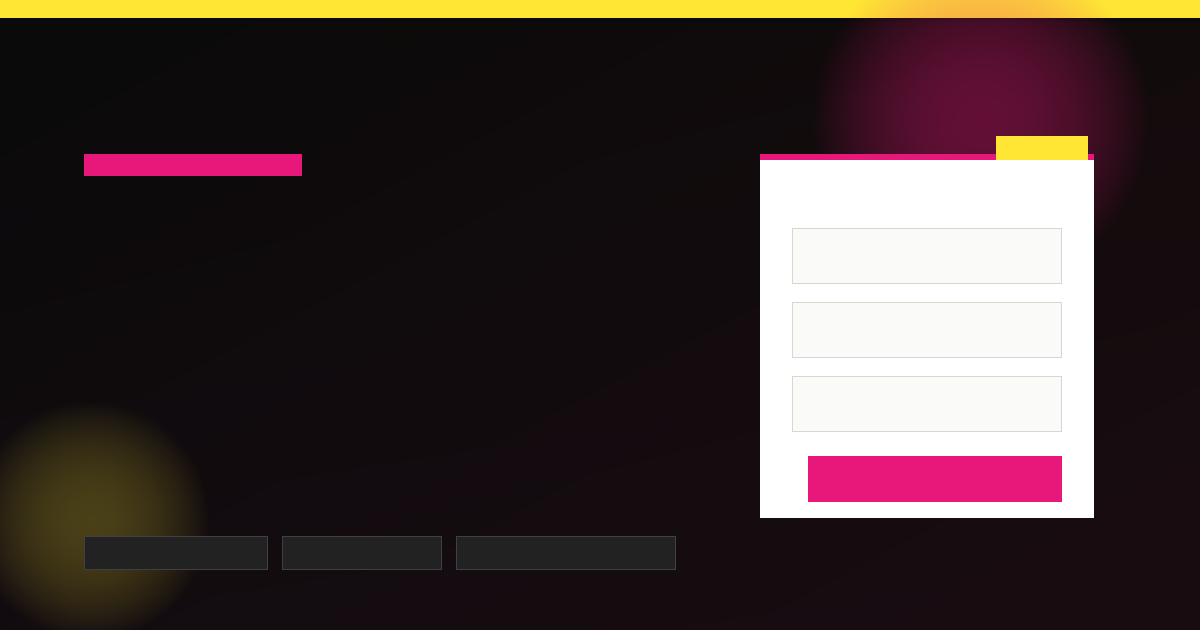
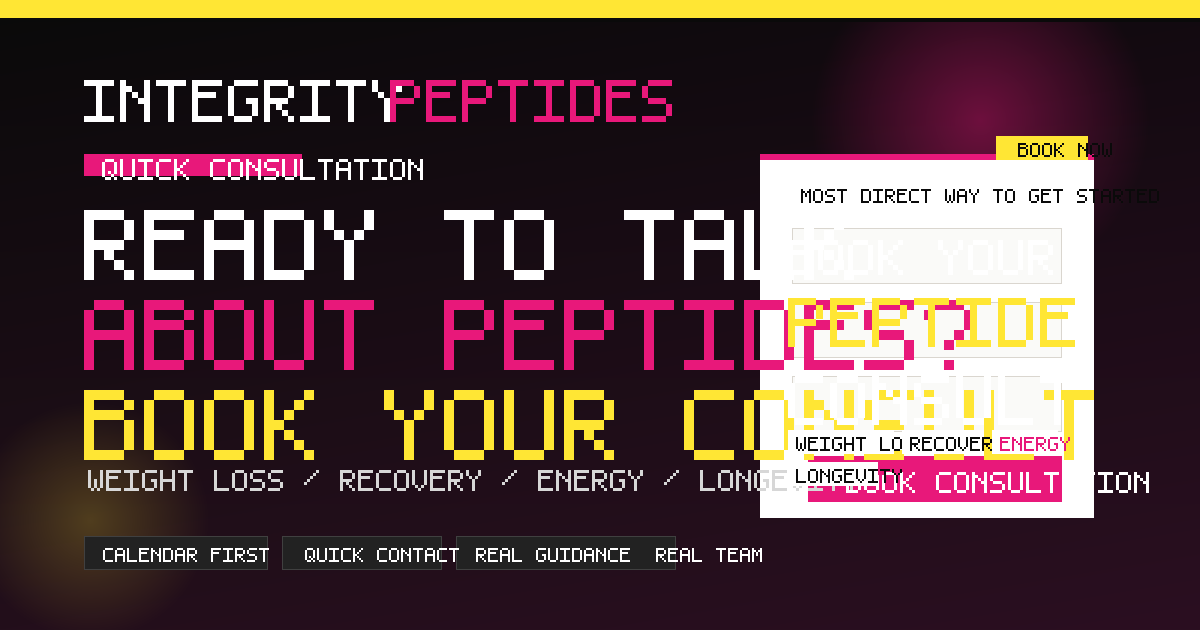
Update OG image to text-focused artwork

diff --git a/og-card.html b/og-card.html
@@ -1,0 +1,241 @@
+<!DOCTYPE html>
+<html lang="en">
+<head>
+  <meta charset="UTF-8">
+  <meta name="viewport" content="width=1200, initial-scale=1.0">
+  <title>OG Card</title>
+  <link rel="preconnect" href="https://fonts.googleapis.com">
+  <link rel="preconnect" href="https://fonts.gstatic.com" crossorigin>
+  <link href="https://fonts.googleapis.com/css2?family=Noto+Serif+Display:wght@500;600&family=Montserrat:wght@700;800;900&family=Barlow:wght@500;600;700&display=swap" rel="stylesheet">
+  <style>
+    :root {
+      --pink: #e8187a;
+      --pink-light: #ff4da6;
+      --yellow: #ffe634;
+      --black: #0a0a0a;
+      --white: #ffffff;
+    }
+    * { box-sizing: border-box; }
+    html, body {
+      width: 1200px;
+      height: 630px;
+      margin: 0;
+      overflow: hidden;
+      background: #0a0a0a;
+      font-family: "Barlow", sans-serif;
+    }
+    body {
+      position: relative;
+      color: white;
+      background:
+        radial-gradient(circle at 88% 14%, rgba(232, 24, 122, 0.35), transparent 18%),
+        radial-gradient(circle at 8% 84%, rgba(255, 230, 52, 0.18), transparent 16%),
+        linear-gradient(135deg, #0a0a0a 0%, #171117 56%, #2a1121 100%);
+    }
+    .top-strip {
+      position: absolute;
+      inset: 0 0 auto 0;
+      height: 18px;
+      background: var(--yellow);
+      border-bottom: 4px solid var(--black);
+    }
+    .hex {
+      position: absolute;
+      opacity: 0.08;
+      border: 2px solid white;
+      clip-path: polygon(25% 6.7%, 75% 6.7%, 100% 50%, 75% 93.3%, 25% 93.3%, 0% 50%);
+    }
+    .hex.a { top: 72px; right: 86px; width: 220px; height: 220px; }
+    .hex.b { bottom: 74px; left: 58px; width: 120px; height: 120px; }
+    .wrap {
+      position: relative;
+      z-index: 2;
+      width: 100%;
+      height: 100%;
+      padding: 58px 70px 54px;
+      display: grid;
+      grid-template-columns: 1.2fr 0.8fr;
+      gap: 32px;
+    }
+    .left {
+      display: flex;
+      flex-direction: column;
+      justify-content: center;
+      padding-right: 12px;
+    }
+    .brand {
+      font-family: "Noto Serif Display", serif;
+      font-size: 34px;
+      letter-spacing: 0.04em;
+      margin-bottom: 24px;
+    }
+    .brand span { color: var(--pink); }
+    .eyebrow {
+      display: inline-flex;
+      align-items: center;
+      width: fit-content;
+      background: var(--pink);
+      color: white;
+      padding: 8px 14px;
+      clip-path: polygon(8px 0%, 100% 0%, calc(100% - 8px) 100%, 0% 100%);
+      font-family: "Barlow", sans-serif;
+      font-weight: 700;
+      font-size: 15px;
+      letter-spacing: 0.18em;
+      text-transform: uppercase;
+      margin-bottom: 22px;
+    }
+    h1 {
+      margin: 0;
+      font-family: "Montserrat", sans-serif;
+      font-size: 82px;
+      line-height: 0.94;
+      letter-spacing: -0.04em;
+      font-weight: 900;
+      text-transform: uppercase;
+      max-width: 690px;
+    }
+    h1 .pink { color: var(--pink); display: block; }
+    h1 .yellow { color: var(--yellow); display: block; }
+    .sub {
+      margin-top: 24px;
+      max-width: 650px;
+      color: rgba(255, 255, 255, 0.76);
+      font-size: 28px;
+      line-height: 1.35;
+      font-weight: 500;
+    }
+    .chips {
+      display: flex;
+      flex-wrap: wrap;
+      gap: 10px;
+      margin-top: 24px;
+    }
+    .chip {
+      padding: 10px 14px;
+      border: 1px solid rgba(255, 255, 255, 0.18);
+      background: rgba(255, 255, 255, 0.06);
+      color: rgba(255, 255, 255, 0.88);
+      font-size: 14px;
+      font-weight: 700;
+      letter-spacing: 0.12em;
+      text-transform: uppercase;
+    }
+    .right {
+      display: flex;
+      align-items: center;
+      justify-content: center;
+    }
+    .card {
+      width: 100%;
+      max-width: 360px;
+      background: linear-gradient(145deg, var(--pink) 0%, #8b0f52 100%);
+      box-shadow: 12px 12px 0 var(--yellow), 24px 24px 0 rgba(232, 24, 122, 0.18);
+      padding: 34px 30px;
+      position: relative;
+      overflow: hidden;
+    }
+    .card::before {
+      content: "";
+      position: absolute;
+      inset: 0;
+      background:
+        linear-gradient(rgba(255,255,255,0.06) 1px, transparent 1px),
+        linear-gradient(90deg, rgba(255,255,255,0.06) 1px, transparent 1px);
+      background-size: 54px 54px;
+      opacity: 0.35;
+    }
+    .card-inner { position: relative; z-index: 2; }
+    .card-top {
+      color: rgba(255,255,255,0.62);
+      font-size: 13px;
+      font-weight: 700;
+      letter-spacing: 0.18em;
+      text-transform: uppercase;
+      margin-bottom: 14px;
+    }
+    .card-title {
+      font-family: "Montserrat", sans-serif;
+      font-size: 42px;
+      line-height: 0.96;
+      font-weight: 900;
+      text-transform: uppercase;
+      margin: 0 0 18px;
+    }
+    .card-title span { display: block; color: var(--yellow); }
+    .pill-row {
+      display: flex;
+      flex-wrap: wrap;
+      gap: 7px;
+      margin-bottom: 26px;
+    }
+    .pill {
+      padding: 6px 10px;
+      font-size: 11px;
+      font-weight: 700;
+      letter-spacing: 0.14em;
+      text-transform: uppercase;
+      border: 1px solid rgba(255,255,255,0.18);
+      background: rgba(255,255,255,0.12);
+    }
+    .cta {
+      display: inline-block;
+      background: var(--yellow);
+      color: var(--black);
+      padding: 12px 18px;
+      clip-path: polygon(8px 0%, 100% 0%, calc(100% - 8px) 100%, 0% 100%);
+      font-size: 14px;
+      font-weight: 800;
+      letter-spacing: 0.16em;
+      text-transform: uppercase;
+    }
+    .card-brand {
+      margin-top: 22px;
+      padding-top: 14px;
+      border-top: 1px solid rgba(255,255,255,0.16);
+      font-family: "Noto Serif Display", serif;
+      font-size: 16px;
+      letter-spacing: 0.08em;
+      color: rgba(255,255,255,0.52);
+    }
+  </style>
+</head>
+<body>
+  <div class="top-strip"></div>
+  <div class="hex a"></div>
+  <div class="hex b"></div>
+  <div class="wrap">
+    <div class="left">
+      <div class="brand">Integrity <span>Peptides</span></div>
+      <div class="eyebrow">Quick Consultation</div>
+      <h1>
+        Ready To Talk
+        <span class="pink">About Peptides?</span>
+        <span class="yellow">Book Your Consult</span>
+      </h1>
+      <div class="sub">Weight loss, recovery, energy, and healthy aging support with a fast path to a real conversation.</div>
+      <div class="chips">
+        <div class="chip">Calendar First</div>
+        <div class="chip">Quick Contact Backup</div>
+        <div class="chip">Education First</div>
+      </div>
+    </div>
+    <div class="right">
+      <div class="card">
+        <div class="card-inner">
+          <div class="card-top">Integrity Peptides • Consultation</div>
+          <div class="card-title">Book Your <span>Peptide Consult</span></div>
+          <div class="pill-row">
+            <div class="pill">Weight Loss</div>
+            <div class="pill">Recovery</div>
+            <div class="pill">Energy</div>
+            <div class="pill">Longevity</div>
+          </div>
+          <div class="cta">Book Consultation</div>
+          <div class="card-brand">Integrity Peptides</div>
+        </div>
+      </div>
+    </div>
+  </div>
+</body>
+</html>
